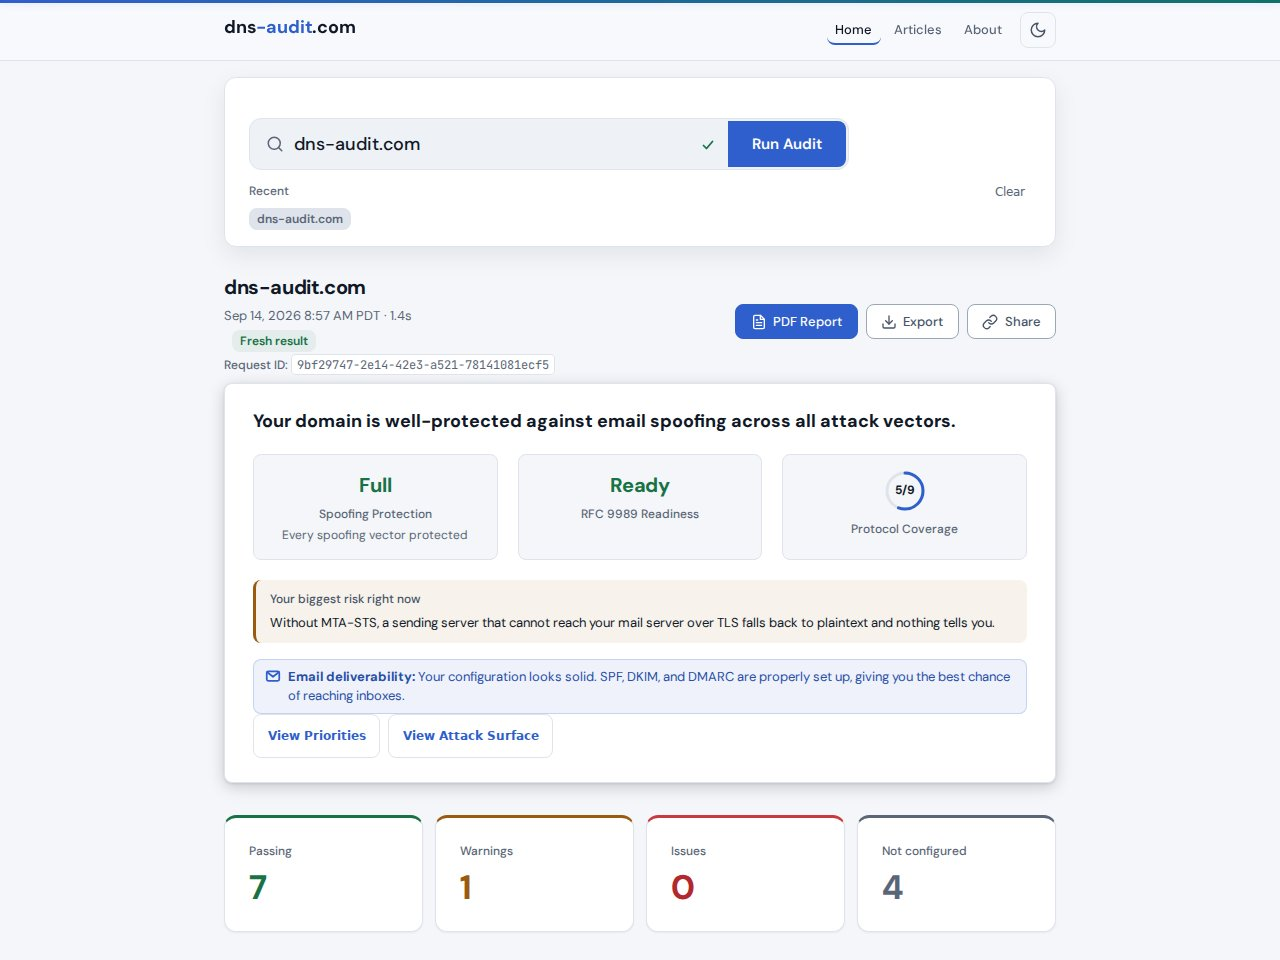
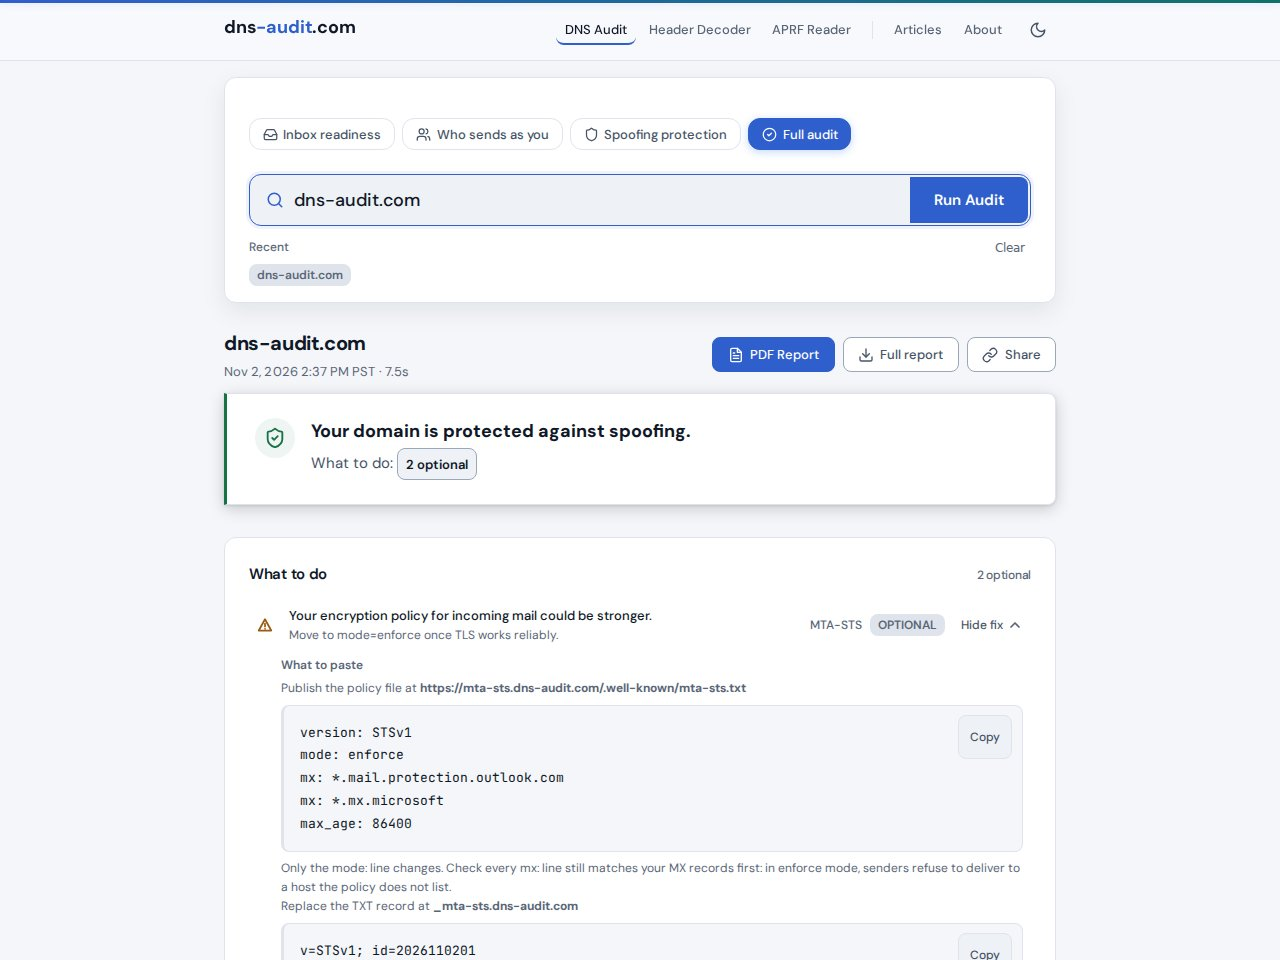
README: catch up with the redesign, scopes, Sendermap and the SPF budget
The README was last changed on 2026-10-25, before the results page put
the fixes first, the DKIM probe moved onto Sendermap's catalog, CT gained
a Cert Spotter fallback and the SPF walk got its query budget. It now
describes the four pills and their scope keys, the current results page
order, the Sender Map, APRF under Draft standards, the two PDF buttons,
every API route, the environment variables, and a fresh real result and
screenshot. The history index gains Doc 105.

diff --git a/README.md b/README.md
@@ -9,29 +9,42 @@ dns-audit.com audits a domain's DNS and email security: enter a domain and get p
 
 ## A real result
 
-dns-audit.com audited on 9 October 2026, in 2.3 seconds. The headline reads "Your domain is protected against spoofing." Spoofing protection: Full. RFC 9989 readiness: Ready. Protocol coverage: 7 of 9. Four of its twelve cards, each with the record it judged:
+dns-audit.com audited on 2 November 2026 (Full audit), in 7.5 seconds. The headline reads "Your domain is protected against spoofing." with "What to do: 2 optional" under it. The Technical summary shows Spoofing protection: Full and Protocol coverage: 7 of 9. Four of its twelve cards, each with the record it judged:
 
 | Check | Status | Evidence |
 |-------|--------|----------|
 | DMARC | Pass | `v=DMARC1; p=reject; rua=mailto:hgx4xes7dg@rua.powerdmarc.com,mailto:dmarc_agg@vali.email; ruf=mailto:hgx4xes7dg@ruf.powerdmarc.com;` p=reject, and both report destinations are authorized. |
 | SPF | Pass | `v=spf1 include:spf.protection.outlook.com ~all` 1 DNS lookup of the 10 allowed. |
-| MTA-STS | Could be stronger | `v=STSv1; id=20260923T184700;` with a policy in testing mode: senders attempt TLS but will not refuse delivery if it fails. |
-| Certificate Transparency | Not checked | crt.sh did not answer in time. The card says so, and calls it a gap in the audit, not a finding about the domain. |
+| MTA-STS | Could be stronger | `v=STSv1; id=20261025T0001;` with a policy in testing mode: senders attempt TLS but will not refuse delivery if it fails. The plan row gives the policy file with `mode: enforce` and the new `id=` to publish with it. |
+| Certificate Transparency | 14+ certs | 14 or more active certificates from 3 issuers. Cert Spotter returned the first 14 of a longer list, so the card says expiry was not judged rather than guessing. |
 
-The last row is the rule the tool is built on: a lookup that did not complete is reported as not checked, never as a pass or a fail. [ARCHITECTURE.md](ARCHITECTURE.md) lists the others.
+The last row is the rule the tool is built on: what a lookup did not read is not judged, and a lookup that did not complete is reported as Not checked, never as a pass or a fail. [ARCHITECTURE.md](ARCHITECTURE.md) lists the others.
 
 ![Results page](docs/screenshots/results-light.jpg)
 
 ## Running an audit
 
-Enter a domain at [dns-audit.com](https://dns-audit.com), or call `GET /api/audit?domain=example.com` for the same result as JSON. Optional parameters: `selector` names your DKIM selector, and `scope` limits the run to email deliverability, email security, DMARC or DNS security. The older scope keys (`email_full`, `transport`, `dns_infra`, `security_scan`) still work and map to the new ones. Every card shows what it read, its status, what that means, and a copy-paste fix where one applies. The [PDF report](#api) carries the same result.
+Enter a domain at [dns-audit.com](https://dns-audit.com) and pick the question you are asking. Each pill runs only the checks it needs:
+
+| Pill | Scope key | Checks |
+|------|-----------|--------|
+| Inbox readiness (the default) | `deliverability` | DMARC, SPF, DKIM, MX |
+| Who sends as you | `senders` | DMARC, SPF, DKIM, MX, plus the Sender Map |
+| Spoofing protection | `email_security` | DMARC, SPF, DKIM, MX, MTA-STS, TLS-RPT, DANE, BIMI |
+| Full audit | `complete` | All twelve |
+
+The pills also sit on the results page, so you can switch question without retyping the domain. Inbox readiness and Who sends as you grade a `p=none` DMARC record as a pass, because Gmail, Yahoo and Microsoft accept it from bulk senders; the other scopes grade it as could be stronger.
+
+Or call `GET /api/audit?domain=example.com` for the same result as JSON. Optional parameters: `selector` names your DKIM selector, and `scope` takes one of the keys above or `dmarc` or `dns_security` (DNSSEC, CAA, DANE, nameservers, CT), which have no pill. With no scope the API runs `complete`. The older scope keys (`email_full`, `transport`, `dns_infra`, `security_scan`) still work and map to the new ones. The [PDF report](#api) carries the same result.
+
+dns-audit.com reads public DNS for the domain you name, and nothing else: no pasted headers, no uploads, no test messages.
 
 ## What it does not do
 
 - No blocklist lookups.
-- No mail sending and no SMTP connections. Outbound traffic is DNS plus HTTPS fetches of MTA-STS policies, BIMI logos, and crt.sh, and error reports to Sentry when SENTRY_DSN is set.
+- No mail sending and no SMTP connections. Outbound traffic is DNS plus HTTPS fetches of MTA-STS policies, BIMI logos, and certificate logs (crt.sh, with Cert Spotter as the fallback), and error reports to Sentry when SENTRY_DSN is set.
 - No accounts.
-- No stored audit history beyond the 90-day DNS snapshot table. Results are cached in memory for five minutes; the request log keeps each audit's domain and scope, not results. What gets logged: [the privacy page](https://dns-audit.com/privacy).
+- No stored audit history beyond the 90-day DNS snapshot table. Results are cached in memory for five minutes. Usage is logged: the request log keeps each audit's domain, scope, duration and coarse browser labels, plus a short usage note from each of the two sister tools. Every field is listed on [the privacy page](https://dns-audit.com/privacy).
 
 ## 12 Security Checks
 
@@ -39,9 +52,9 @@ Enter a domain at [dns-audit.com](https://dns-audit.com), or call `GET /api/audi
 
 | Check | What It Does |
 |-------|-------------|
-| **DMARC + RFC 9989** | Validation against RFC 9989 and against RFC 7489, side by side, with a per-tag decoder, dangerous-combination detection, and the DNS Tree Walk of [RFC 9989 Section 4.10](https://www.rfc-editor.org/rfc/rfc9989.html#section-4.10) for hierarchical policy discovery. |
-| **SPF** | Syntax validation, mechanism analysis, recursive evaluation with full lookup chain tracing, void lookup detection, and vendor-labeled include tree visualization. Flags `+all`, `?all`, missing `all`, `redirect`+`all` conflicts, deprecated `ptr`, overly broad CIDRs, and invalid IPs. |
-| **DKIM** | Selector discovery from a list of about 1,100 known selectors. When SPF or MX names a vendor, up to 40 selectors chosen for it are tried first; otherwise the list's first entries are. 46 email service selectors (Mailchimp, SendGrid, Klaviyo and others) are tried alongside them on every domain. A sweep of up to 156 more common names runs only when those find nothing. Key strength analysis for RSA (1024/2048/4096) and Ed25519. Direct lookup of user-supplied selectors. Wildcard DNS detection prevents false positives. |
+| **DMARC + RFC 9989** | Validation against RFC 9989 and against RFC 7489, side by side, with a per-tag decoder, dangerous-combination detection, an RFC 9989 readiness panel, and the DNS tree walk of [RFC 9989 Section 4.10](https://www.rfc-editor.org/rfc/rfc9989.html#section-4.10) for hierarchical policy discovery. |
+| **SPF** | Syntax validation, mechanism analysis, recursive evaluation with full lookup chain tracing, void lookup detection (MX hosts with no address count too), and vendor-labeled include tree visualization. The walk stops after 100 DNS queries; past that the lookup count is reported as a floor ("at least N"). Flags `+all`, `?all`, missing `all`, `redirect`+`all` conflicts, deprecated `ptr`, an include or `mx` that is a PermError, overly broad CIDRs, and invalid IPs. |
+| **DKIM** | Selector discovery from [Sendermap](https://github.com/marmot7775/sendermap)'s catalog: its selector sweep (about 110 names) plus a short local list of names seen in production, with the vendors the domain's SPF and MX point at tried first. A sweep of 156 common generic names runs only when those find nothing. Key strength analysis for RSA (1024/2048/4096) and Ed25519. Direct lookup of user-supplied selectors. Wildcard DNS detection prevents false positives. |
 
 ### Mail and Transport
 
@@ -65,19 +78,24 @@ Enter a domain at [dns-audit.com](https://dns-audit.com), or call `GET /api/audi
 | Check | What It Does |
 |-------|-------------|
 | **Nameservers** | NS count, resolution and authoritative response verification, `SOA` serial consistency, IPv6 support, network diversity across /24 ranges, provider identification. |
-| **Certificate Transparency** | CT log query via crt.sh, issuer breakdown, CAA mismatch detection, expiring certificate alerts, subdomain discovery. |
+| **Certificate Transparency** | CT log query via crt.sh, falling back to Cert Spotter when crt.sh does not answer; issuer breakdown, CAA mismatch detection, expiring certificate alerts that skip certificates already renewed, subdomain discovery. When both logs are silent the card is Not checked, retries once by itself, then offers Try again. |
+
+### Draft standards
+
+APRF (inbox placement reports, an IETF working group draft) is checked for information only and never changes a result. A published record gets its own card under Draft standards; no record is one collapsed line.
 
 ## How Results Are Presented
 
-There are no letter grades and no numeric score. Results open with three summary metrics:
+There are no letter grades and no numeric score. The fixes come first:
 
-| Metric | What It Shows |
-|--------|---------------|
-| Spoofing Protection | Whether direct, subdomain, and non-existent-subdomain spoofing are closed by the DMARC policy, naming any that are not. |
-| RFC 9989 Readiness | Ready, Compatible, In progress, Action needed, or Not assessed. Ready also requires an enforcing policy (p=quarantine or p=reject) and an rua address, which RFC 9989 itself does not require. |
-| Protocol Coverage | How many of up to nine protocols (DMARC, SPF, DKIM, MTA-STS, TLS-RPT, DANE, DNSSEC, BIMI, CAA) are configured |
+1. **Headline.** One sentence that answers the question you picked, with the What to do counts under it (to fix now, important, recommended, optional). Each count jumps to its first row.
+2. **What to do.** One prioritized fix list across all protocols, in four tiers. The first row opens with its fix showing. Each fix says who makes the change and gives the exact record to paste.
+3. **Records to change.** Every record the plan asks for, in order, in one table. When the nameservers name a known DNS host (16 are mapped, Cloudflare and Route 53 among them), its steps for adding a record sit above the table.
+4. **Sender requirements.** A closed checklist of the Gmail, Yahoo and Microsoft sender rules: SPF, DKIM and DMARC graded from the cards, and the five requirements DNS cannot show listed as such. Shown on Inbox readiness and Full audit.
+5. **What changed.** Audit the same domain and scope again and the page lists what was fixed and what is new since the previous run.
+6. **The checks.** Behind one closed Show all checks toggle, grouped into sending, receiving and the domain's DNS. A closed Technical summary holds two metrics: Spoofing protection (whether direct, subdomain and non-existent-subdomain spoofing are closed by the DMARC policy) and Protocol coverage (how many of nine protocols are configured).
 
-Below the summary, each check reports pass, warning, fail, not configured, or not checked, with the finding and a copy-paste fix where one applies. A prioritized roadmap orders the fixes by impact.
+Each card shows what it read, a status pill and a copy-paste fix where one applies. The pills are Pass, Could be stronger, Needs fixing, Optional, not set up (an optional protocol that is not published, never counted as a warning), and Not checked (the lookup did not complete). A few cards use more specific words, such as Does not apply or No mail, by design.
 
 DNS cannot list DKIM selectors, so name yours for the best result; an undetected selector is never marked down.
 
@@ -88,31 +106,34 @@ DNS cannot list DKIM selectors, so name yours for the best result; an undetected
 - **Defensive DNS**: null MX, `v=spf1 -all` and `p=reject` read as a non-mail domain, not as missing records.
 - **Resilience**: whether mail still passes DMARC when SPF or DKIM fails alone.
 - **Anomalies**: cross-check findings, such as MTA-STS without TLS-RPT.
-- **PDF report**: executive summary, priorities, detected vendors, and every check card.
-- **Scoped audits**: four questions (Inbox readiness, Who sends as you, Spoofing protection, Full audit), each running only the checks it needs.
-- **Vendor detection**: built by [Sendermap](https://github.com/marmot7775/sendermap) from DNS (MX, the SPF tree, DKIM keys, bounce and tracking CNAMEs, verification tokens, report addresses), each sender shown with the record that names it and the records its setup still needs.
-- **Roadmap**: one prioritized fix list across all protocols, in four tiers.
+- **Sender Map**: Who sends as you draws every service [Sendermap](https://github.com/marmot7775/sendermap) finds in DNS (MX, the SPF tree, DKIM keys, bounce and tracking CNAMEs, verification tokens, report addresses), on the domain and its sending subdomains. Each service shows how sure the map is (in use, configured, likely, account only), the record that names it and the records its setup still needs. A service with a risk on its own record is amber; risks no service explains are listed in red under Across the domain. A map that does not finish inside its 8 second budget is Not checked, with no services claimed.
+- **PDF report**: PDF Report is the report a client reads: verdict and counts, every fix written out, the records to change, sender requirements, then the checks. Full report adds Part 2, the technical appendix.
+- **Shareable links**: the address bar carries the domain, scope and DKIM selector of the result on screen.
 
 ## Architecture
 
-Single-page app on FastAPI, dnspython and reportlab, with vanilla JavaScript. No accounts, no tracking. The only database is a SQLite table of DNS records seen in past audits, used for change detection and pruned after 90 days.
+Single-page app on FastAPI, dnspython and reportlab, with vanilla JavaScript. No accounts, no cookies and no third-party analytics. The only database is a SQLite table of DNS records seen in past audits, used for change detection and pruned after 90 days. Every merge to main deploys to dns-audit.com.
 
-The pipeline from request to report, which module owns what, and the rules the code keeps: [ARCHITECTURE.md](ARCHITECTURE.md). Why it is built this way: [docs/decisions](docs/decisions/). Review history: [docs/history](docs/history/README.md).
+The site header links two sister tools on their own subdomains, the Email Header Decoder and the APRF Report Reader. They are separate apps; dns-audit.com itself only reads DNS.
+
+The pipeline from request to report, which module owns what, and the rules the code keeps: [ARCHITECTURE.md](ARCHITECTURE.md). Why it is built this way: [docs/decisions](docs/decisions/). Review history: [docs/history](docs/history/README.md). Changes: [CHANGELOG.md](CHANGELOG.md).
 
 ## API
 
 ```
-GET /api/audit?domain=example.com              JSON response
-GET /api/audit/stream?domain=example.com       SSE streaming
-GET /api/audit/{domain}/pdf                    PDF download
-GET /api/health                                Health check (DNS resolution, running commit)
+GET  /api/audit?domain=example.com              JSON response
+GET  /api/audit/stream?domain=example.com       SSE streaming
+GET  /api/audit/{domain}/pdf                    PDF download (appendix=0 leaves out Part 2)
+GET  /api/ct?domain=example.com                 The Certificate Transparency card alone, asked again
+POST /api/usage                                 Usage notes from the two sister tools
+GET  /api/health                                Health check (DNS resolution, negative lookups, threads, running commit)
 ```
 
-Optional parameters: `selector`, `scope`. Rate limited to 10 requests per IP per minute. Results cached for 5 minutes.
+Optional parameters on the audit and PDF endpoints: `selector`, `scope`. The audit, stream, PDF and CT endpoints share one rate limit of 10 requests per IP per minute. Results cached for 5 minutes.
 
 ## Self-Hosting
 
-The Python floor and the dependencies are declared once, in [pyproject.toml](pyproject.toml). The requirements files are generated from it.
+The Python floor (3.12, because Sendermap requires it) and the dependencies are declared once, in [pyproject.toml](pyproject.toml). The requirements files are generated from it.
 
 ```bash
 pip install -r requirements.txt
@@ -123,7 +144,19 @@ Run it behind a reverse proxy that terminates TLS, bound to loopback. Exposed on
 
 ### Configuration
 
-`AUDIT_NAMESERVERS`: the nameservers the audit queries, comma separated; default the system's upstreams plus 1.1.1.1 and 8.8.8.8.
+All optional, read from the environment ([config.py](config.py)):
+
+| Variable | Default | What it sets |
+|----------|---------|--------------|
+| `AUDIT_NAMESERVERS` | the system's upstreams plus 1.1.1.1 and 8.8.8.8 | The nameservers the audit queries, comma separated |
+| `TRUSTED_PROXY_IPS` | `127.0.0.1,::1` | Peers whose `X-Real-IP` header is trusted |
+| `RATE_LIMIT_MAX`, `RATE_LIMIT_WINDOW` | `10`, `60` | Requests per IP per window, in seconds |
+| `MAX_CONCURRENT_AUDITS` | `8` | Audits running at once |
+| `CACHE_TTL`, `CACHE_MAX_SIZE` | `300`, `500` | Result cache lifetime in seconds, and entries |
+| `CORS_ORIGINS` | `https://dns-audit.com,https://www.dns-audit.com` | Allowed origins, comma separated |
+| `LOG_DIR`, `LOG_LEVEL` | `./logs`, `INFO` | Where the error and audit logs go, and the log level |
+| `SENTRY_DSN` | unset | Error reports to Sentry; unset sends none |
+| `BUILD_SHA` | read from git | The version `/api/health` reports |
 
 ## Tests
 
@@ -132,7 +165,7 @@ pip install -r requirements.txt -r requirements-dev.txt
 python3 -m pytest tests/ -q
 ```
 
-More than 2,500 tests, run against fake DNS zones. The `no_network` fixture fails any TCP connection off the machine; UDP DNS still gets past it. Browser tests need Playwright (requirements-dev.txt) and `python -m playwright install chromium`, and skip without them.
+More than 3,000 tests, run against fake DNS zones. The `no_network` fixture fails any TCP connection off the machine; UDP DNS still gets past it. Browser tests need Playwright (requirements-dev.txt) and `python -m playwright install chromium`, and skip without them.
 
 To change something: [CONTRIBUTING.md](CONTRIBUTING.md).
 

diff --git a/docs/history/README.md b/docs/history/README.md
@@ -90,5 +90,6 @@ repo. Doc 42 (branch cleanup) was not saved either.
 - [Doc 102](doc-102.md): Thread cap: TasksMax on the unit, AUDIT_THREAD_CEILING, health thread fields, chunked DKIM priority wave
 - [Doc 103](doc-103.md): Five audit scopes grouped by the visitor's question; old scope keys map to new ones
 - [Doc 104](doc-104.md): Under Email Deliverability a p=none DMARC record grades pass; other scopes unchanged
+- [Doc 105](doc-105.md): The DKIM probe runs on Sendermap's selector sweep plus LOCAL_SELECTORS; the master list and the 40-name cap are gone
 - [APRF -01](aprf-01.md): Own-domain test moved to the wildcard; article follows draft-ietf-mailmaint-aprf-01
 - [Making the standard visible](standard-visible.md): Architecture page, decisions, CI lint, packaging, cleanup
